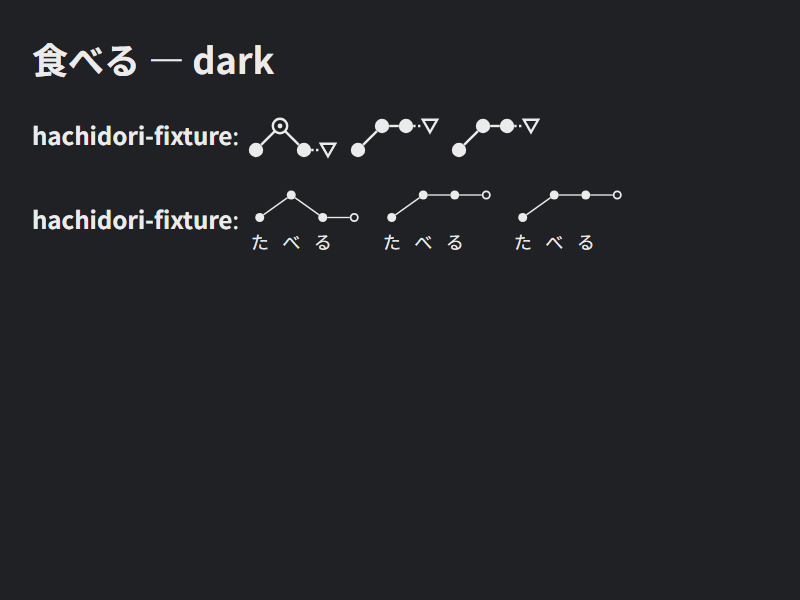
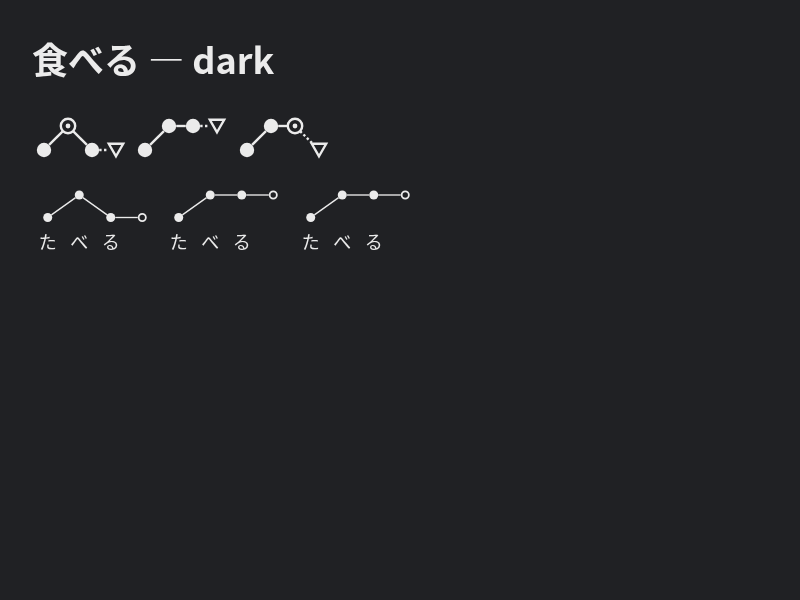
docs: show label-free Anki pitch graphs
The pitch graph screenshots still showed the bold dictionary name that
this branch removes, and the standard LHH graph with a high particle,
which #384 changed to Yomitan's low particle. Re-render both cards from
the production exporter on the chrome-e2e card page (Chrome for Testing
152, 800x600, Noto Sans CJK JP), say that graph fields carry no
dictionary names, and state the particle rule each graph style uses.

diff --git a/docs/custom-buttons-and-templates.md b/docs/custom-buttons-and-templates.md
@@ -65,12 +65,14 @@ then map an Anki field such as `Graph` to `{pitch-accent-graphs}`. For a graph
 with kana under each mora, use `{pitch-accent-graphs-jj}` (Jidoujisho style).
 Both export inline SVG that follows the card's text color and font size.
 
-Each dictionary's variants are kept in source order. The final hollow symbol
-shows the pitch of a following particle, distinguishing a flat accent from a
-drop after the last mora. Numeric downstep positions and explicit `H`/`L`
-patterns are supported. A pattern may include one extra level for the particle;
-otherwise its final level continues. Missing, transcription-only or invalid
-pitch data leaves the graph field empty.
+Graph fields contain no dictionary names, as in Yomitan. Each dictionary's
+variants are kept in source order, one line per dictionary. The final hollow
+symbol shows the pitch of a following particle, distinguishing a flat accent
+from a drop after the last mora. Numeric downstep positions and explicit `H`/`L`
+patterns are supported. A pattern may include one extra level for the particle.
+Without one, the standard graph leaves the particle low, as Yomitan's graph
+does, and the kana graph continues the final level. Missing, transcription-only
+or invalid pitch data leaves the graph field empty.
 
 Existing graph mappings produce SVG on the next mining operation; stored notes
 are not migrated. Text and position markers keep their existing output. Use
